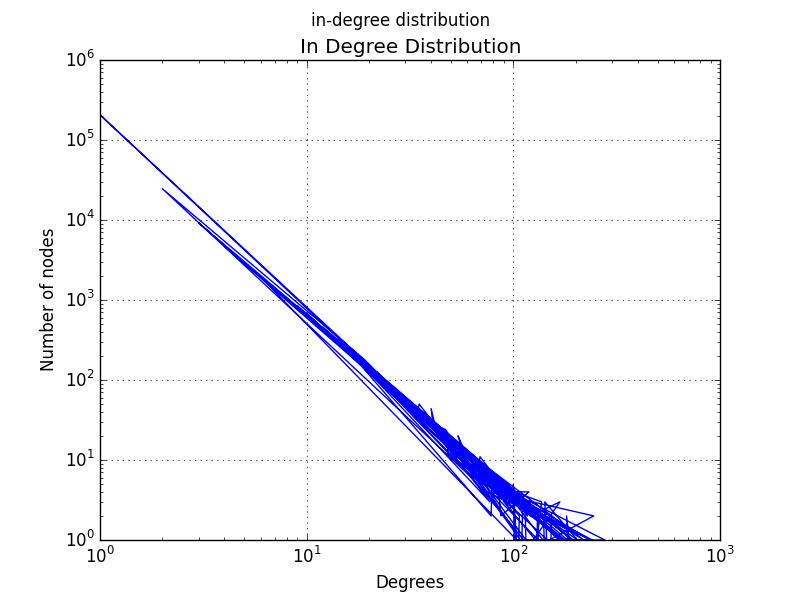
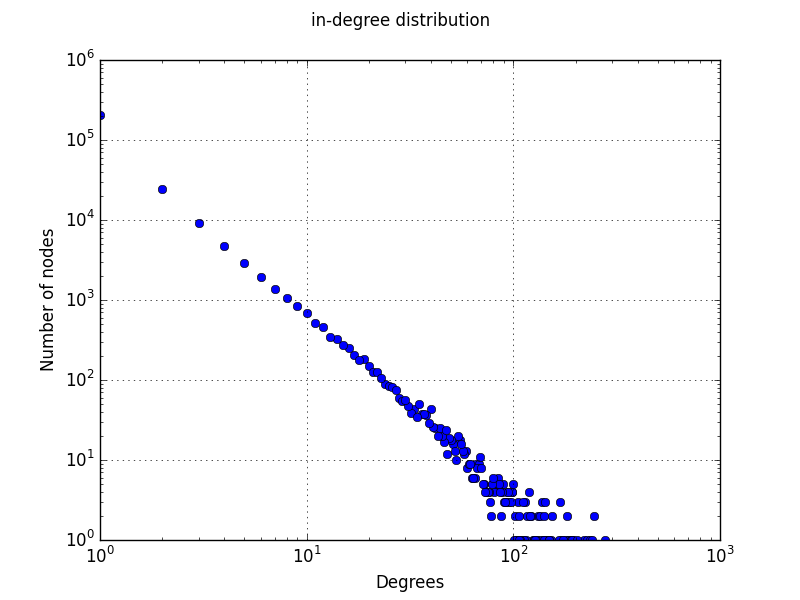
powerlaw

diff --git a/P2_Deliverables/degree_distribution.py b/P2_Deliverables/degree_distribution.py
@@ -1,5 +1,6 @@
 import networkx as nx
 import  matplotlib.pyplot as plt
+import powerlaw
 
 directed_G = nx.read_graphml('../networkx_graph.graphml')
 undirected_G = directed_G.to_undirected()
@@ -61,7 +62,7 @@ def plot_in_degree_histogram(G):
     # plot degree distribution
     #plt.scatter(x_list,y_list)
     #plt.show()
-    plt.plot(x_list,y_list,'b-')
+    plt.plot(x_list,y_list,'bo')
     plt.yscale('log')
     plt.xscale('log')
     plt.ylabel('Number of nodes')
@@ -114,7 +115,7 @@ def plot_out_degree_histogram(G):
     # plot degree distribution
     #plt.scatter(x_list,y_list)
     #plt.show()
-    plt.plot(x_list,y_list,'-b')
+    plt.plot(x_list,y_list,'bo')
     plt.yscale('log')
     plt.xscale('log')
     plt.ylabel('Number of nodes')
@@ -123,6 +124,19 @@ def plot_out_degree_histogram(G):
     plt.grid()
     plt.show()
 
+
+def power_law_exponent():
+    in_degree_list = list(directed_G.in_degree().values())
+    in_degree = [x for x in in_degree_list if x != 0]
+    result = powerlaw.Fit(in_degree, discrete=True)
+    print "Alpha exponent of in degree distribution: ", result.power_law.alpha
+
+    out_degree_list = list(directed_G.out_degree().values())
+    out_degree = [x for x in out_degree_list if x != 0]
+    result = powerlaw.Fit(out_degree, discrete=True)
+    print "Alpha exponent of out degree distribution: ", result.power_law.alpha
+
+power_law_exponent()
 plot_in_degree_histogram(directed_G)
 plot_out_degree_histogram(directed_G)
 
